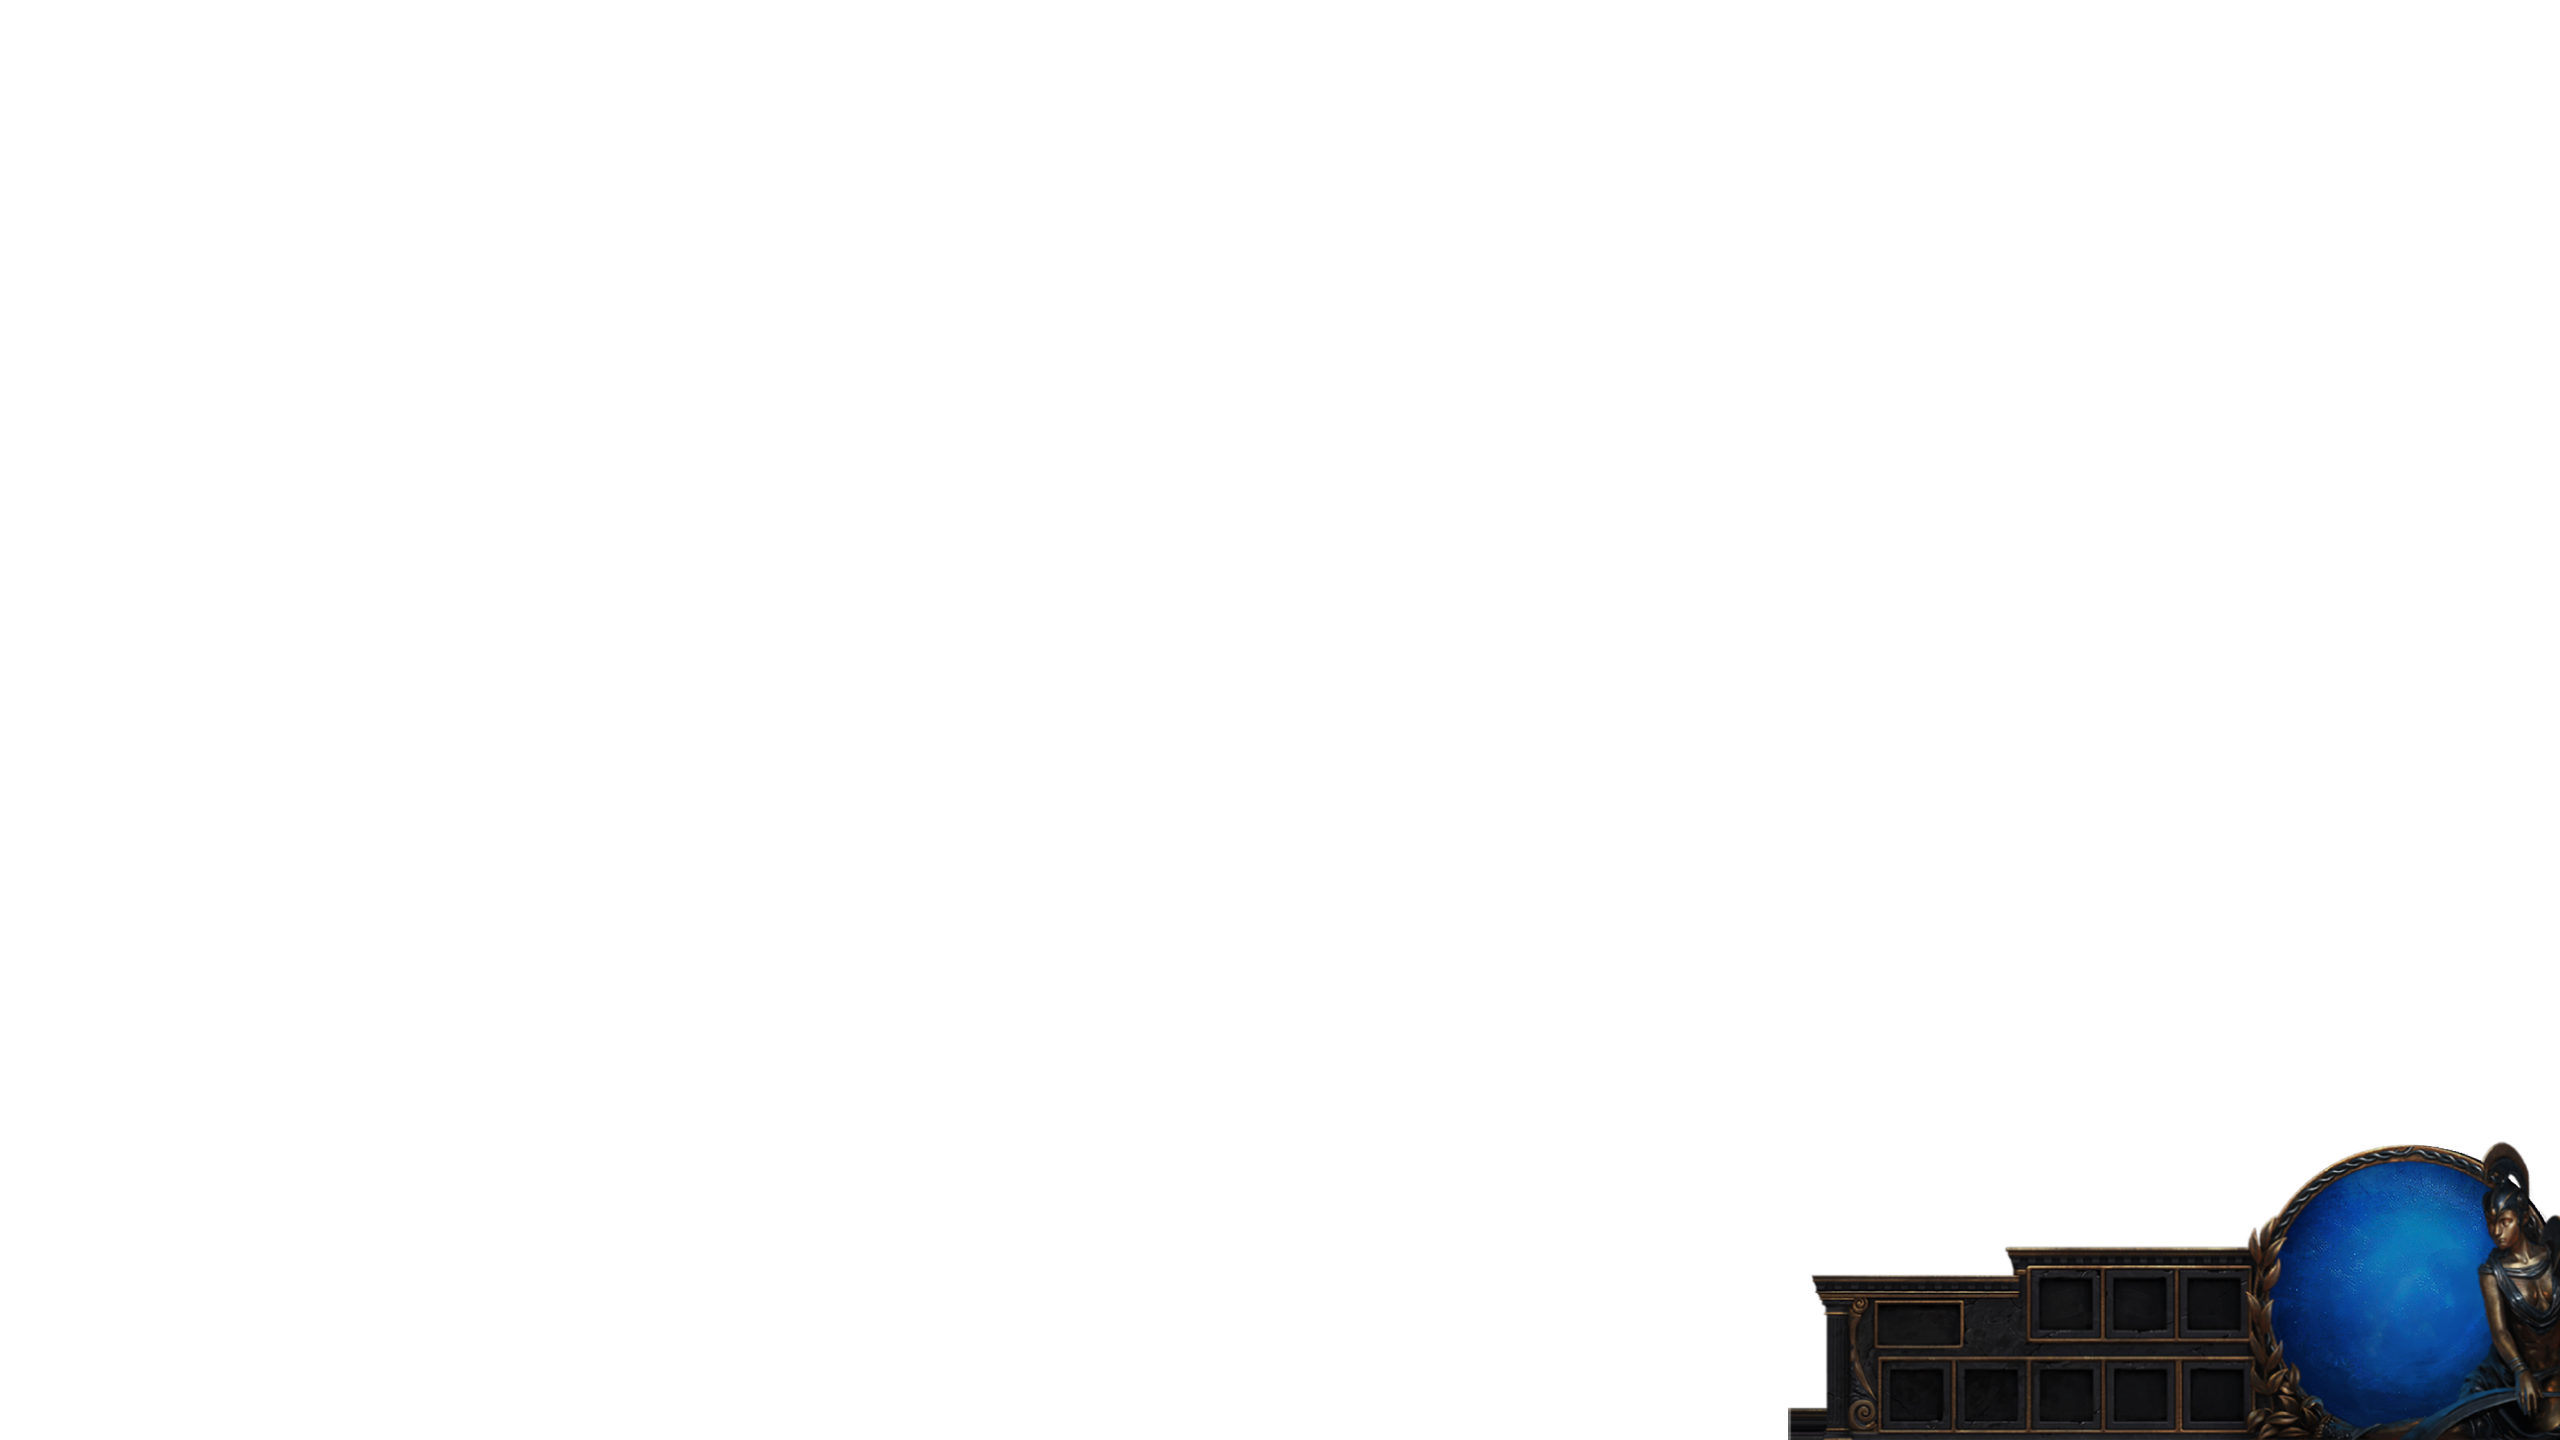
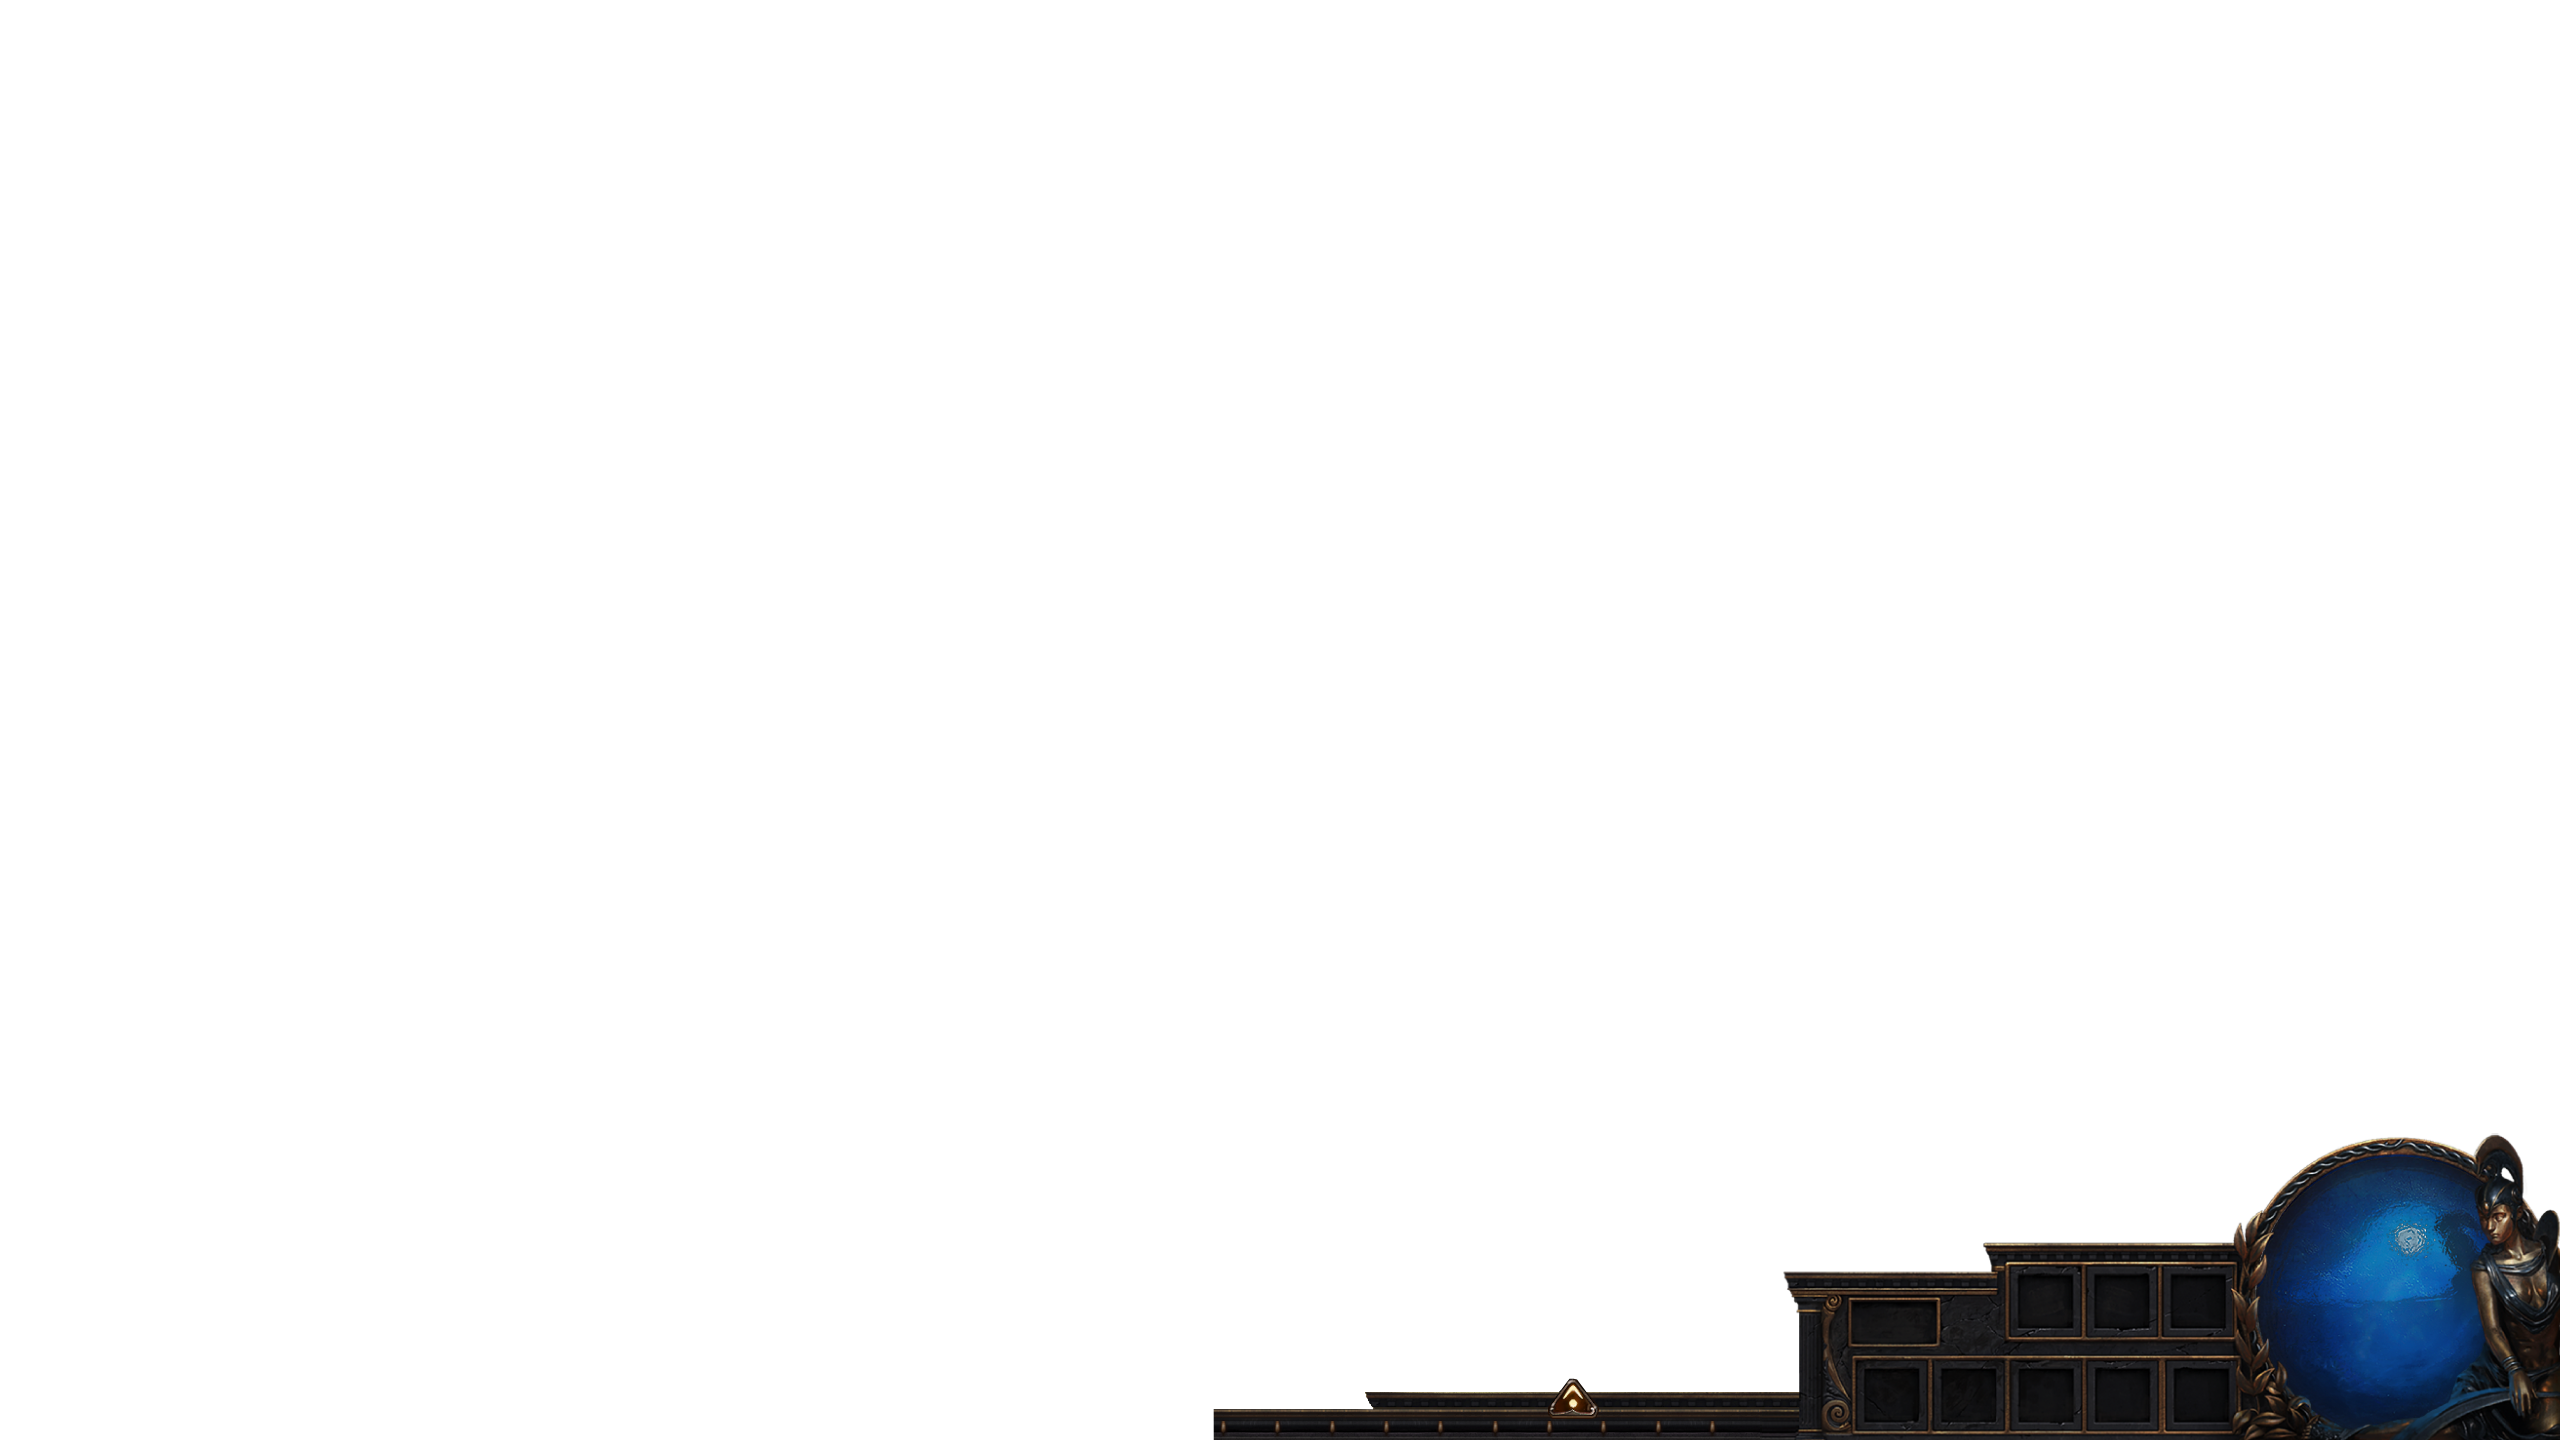
styling and scaling

Changed region(s): [[0.4688, 0.7812, 1.0, 1.0]]

diff --git a/app/style/index.css b/app/style/index.css
@@ -27,7 +27,6 @@
     width: 635px;
     height: 1000px;
     font-family: "Fontin Smallcaps", "Helvetica Neue", Helvetica, Arial, sans-serif;
-    position: relative;
     -webkit-user-select: none;
     /* Safari */
     -ms-user-select: none;
@@ -79,13 +78,14 @@
     font-family: "Fontin Smallcaps", "Helvetica Neue", Helvetica, Arial, sans-serif;
     position: absolute;
     top:10vh;
-    left:20vw;
+    left:18vw;
     -webkit-user-select: none;
     /* Safari */
     -ms-user-select: none;
     /* IE 10 and IE 11 */
     user-select: none;
     /* Standard syntax */
+    z-index: 11;
 }
 
 .hortistation .frame {
@@ -482,22 +482,58 @@
     background-color: #2d3136 !important;
 }
 
-@media screen and (max-width: 2500px) {
+@media screen and (max-height: 1440px) {
+    .hortistation {
+        transform: scale(0.80);
+        transform-origin: top left;
+    }
+
+    .inventoryWindow {
+        transform: scale(1.4);
+        transform-origin: top right;
+    }
+}
+
+
+@media screen and (max-height: 1200px) {
     .hortistation {
         transform: scale(0.75);
         transform-origin: top left;
     }
 
     .inventoryWindow {
-        transform: scale(0.90);
+        transform: scale(1);
         transform-origin: top right;
     }
 }
 
-
-@media screen and (max-width: 1920px) {
+@media screen and (max-height: 1000px) {
     .hortistation {
         transform: scale(0.70);
+        transform-origin: top left;
+    }
+
+    .inventoryWindow {
+        transform: scale(0.93);
+        transform-origin: top right;
+    }
+}
+
+@media screen and (max-height: 900px) {
+    .hortistation {
+        transform: scale(0.65);
+        transform-origin: top left;
+    }
+
+    .inventoryWindow {
+        transform: scale(0.9);
+        transform-origin: top right;
+    }
+}
+
+@media screen and (max-height: 800px) {
+    .hortistation {
+        transform: scale(0.60);
         transform-origin: top left;
     }
 
@@ -506,39 +542,26 @@
         transform-origin: top right;
     }
 }
-
-@media screen and (max-width: 1750px) {
-    .hortistation {
-        transform: scale(0.65);
-        transform-origin: top left;
-    }
-
-    .inventoryWindow {
-        transform: scale(0.75);
-        transform-origin: top right;
-    }
-}
-
-@media screen and (max-width: 1600px) {
+@media screen and (max-height: 700px) {
     .hortistation {
         transform: scale(0.60);
         transform-origin: top left;
     }
 
     .inventoryWindow {
-        transform: scale(0.65);
+        transform: scale(0.80);
         transform-origin: top right;
     }
 }
 
-@media screen and (max-width: 1440px) {
+@media screen and (max-height: 600px) {
     .hortistation {
-        transform: scale(0.55);
+        transform: scale(0.60);
         transform-origin: top left;
     }
 
     .inventoryWindow {
-        transform: scale(0.55);
+        transform: scale(0.70);
         transform-origin: top right;
     }
 }
